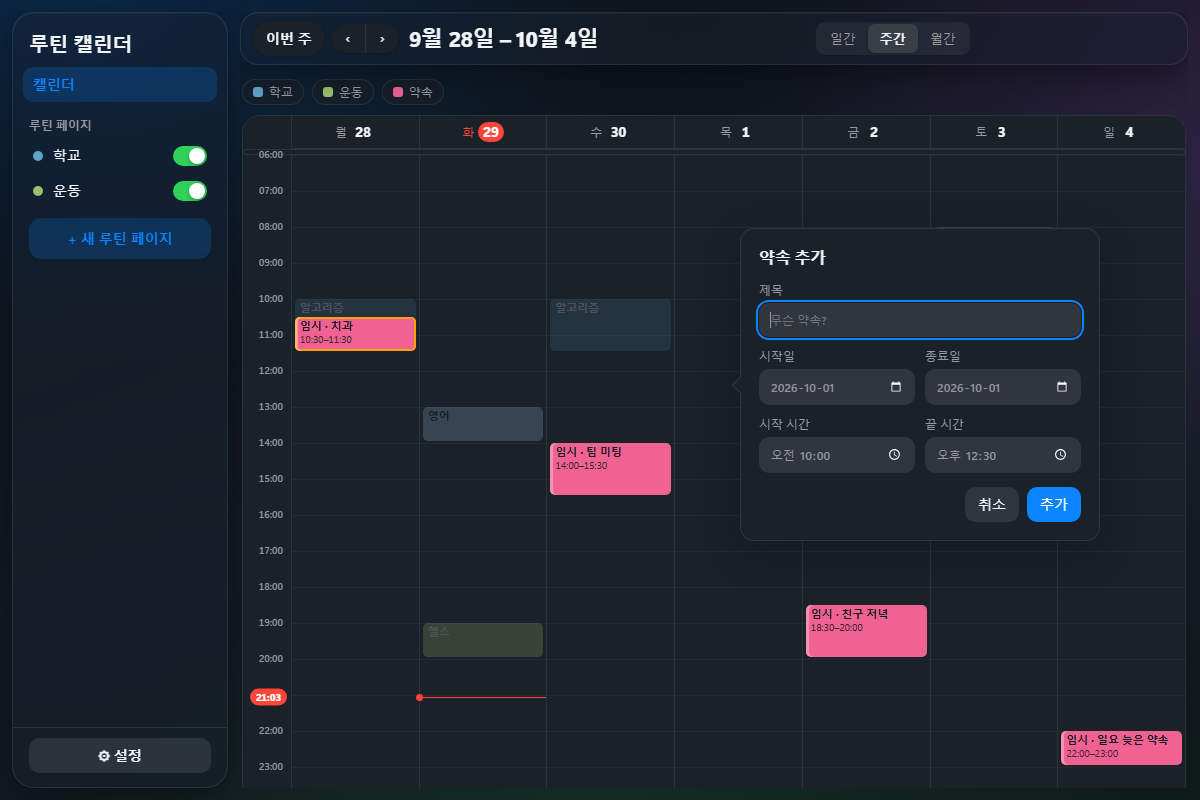
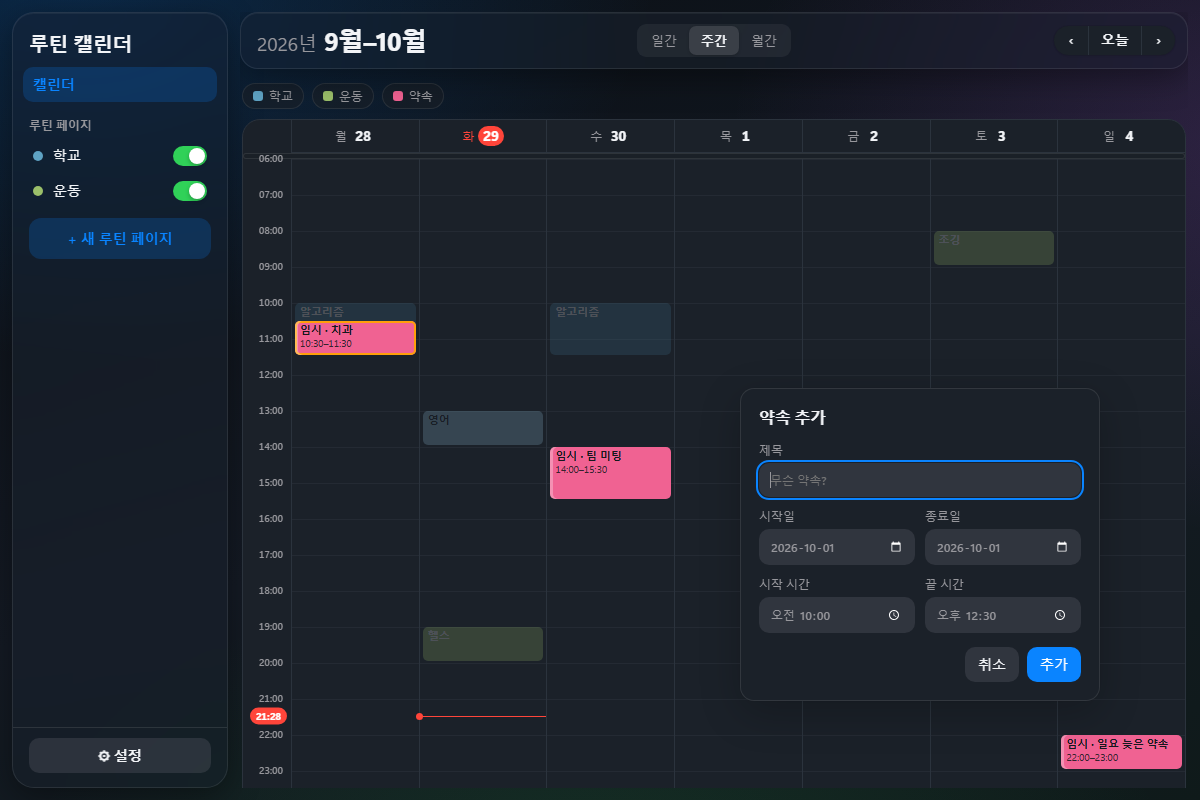
Popover: drop the arrow; align the top corner to the anchor and push up only when needed
- 화살표 제거. 팝오버의 위쪽 모서리(오른쪽에 뜨면 왼쪽 위, 왼쪽에 뜨면 오른쪽 위)를 기준점 상단(블록 위쪽·클릭/드래그 놓은 지점)에 맞춰 아래로 펼치고, 아래가 부족하면 위로 밀어 화면 안에. 등장 스프링의 원점도 그 모서리
- 하네스: 월간 날짜 칸 클릭 시 상단이 클릭 높이, 마지막 줄 칸·일요일 22시 블록에서 잘리지 않음 확인. 문서·스크린샷 갱신

diff --git a/styles.css b/styles.css
@@ -373,7 +373,7 @@ button[disabled]:active{transform:none}
 @media (prefers-color-scheme: dark){:root:not([data-theme="light"]) .mgrid .ev{--tint:30%;color:color-mix(in srgb,var(--ec) 70%,#fff)}:root:not([data-theme="light"]) .mgrid .ev .tag{background:rgba(255,255,255,.14)}:root:not([data-theme="light"]) .blk.evb{box-shadow:inset 3px 0 0 rgba(255,255,255,.3)}:root:not([data-theme="light"]) .blk.evb.cf{box-shadow:inset 3px 0 0 rgba(255,255,255,.3),inset 0 0 0 2px var(--warn)}}
 :root[data-theme="dark"] .mgrid .ev{--tint:30%;color:color-mix(in srgb,var(--ec) 70%,#fff)}:root[data-theme="dark"] .mgrid .ev .tag{background:rgba(255,255,255,.14)}:root[data-theme="dark"] .blk.evb{box-shadow:inset 3px 0 0 rgba(255,255,255,.3)}:root[data-theme="dark"] .blk.evb.cf{box-shadow:inset 3px 0 0 rgba(255,255,255,.3),inset 0 0 0 2px var(--warn)}
 
-/* 3차: 약속 추가·편집은 데스크톱 폭에서 팝오버(기준점 옆, 화살표, 360px, 딤 없음). 상단바 ‹ 오늘 › 묶음은 .navpair (4차 참고) */
+/* 3차: 약속 추가·편집은 데스크톱 폭에서 팝오버(기준점 옆, 위쪽 모서리를 기준점 상단에, 360px, 화살표·딤 없음). 상단바 ‹ 오늘 › 묶음은 .navpair (4차 참고) */
 .bar .navpair{display:inline-flex;align-items:stretch;flex:none;background:var(--panel);border-radius:999px;box-shadow:0 1px 2px rgba(0,0,0,.08),0 0 0 1px rgba(0,0,0,.05);overflow:hidden}
 .bar .navpair button{background:transparent;box-shadow:none;border:0;border-radius:0;padding:6px 11px;min-width:34px;font-weight:600;font-size:14px;line-height:1.2;color:var(--ink)}
 .bar .navpair button+button{border-left:1px solid var(--grid-line)}
@@ -383,9 +383,6 @@ button[disabled]:active{transform:none}
 .md.pop{position:fixed;width:360px;max-width:calc(100vw - 24px);max-height:none;overflow:visible;border-radius:14px;padding:16px 18px 18px;background:var(--panel);border:1px solid var(--line);box-shadow:0 12px 40px rgba(0,0,0,.22),0 0 0 1px rgba(0,0,0,.04);touch-action:auto}
 .md.pop h3{font-size:16px;margin-bottom:12px}
 .md.pop .cfbox{max-height:160px;overflow:auto}
-.md.pop .arrow{position:absolute;width:12px;height:12px;background:var(--panel);border:1px solid var(--line);transform:rotate(45deg);pointer-events:none}
-.md.pop[data-side="right"] .arrow{left:-7px;border-top:none;border-right:none}
-.md.pop[data-side="left"] .arrow{right:-7px;border-bottom:none;border-left:none}
 
 /* 4차: 캘린더 상단바(macOS): 왼쪽 큰 제목 · 가운데 세그먼트 · 오른쪽 ‹ 오늘 › 묶음(+ 약속은 그 왼쪽). grid 1fr auto 1fr 이라 제목 길이가 바뀌어도 세그먼트는 정중앙, 묶음은 오른쪽 끝 고정 */
 .bar.cal{display:grid;grid-template-columns:1fr auto 1fr;align-items:center;gap:8px}

diff --git a/CLAUDE.md b/CLAUDE.md
@@ -113,7 +113,7 @@
 - 모션은 의존성 없이 Web Animations API 로 구현(`anim()`). 스프링은 감쇠 진동(ζ=1−bounce, ω=2π: 정규화 시간 1 에서 안착)을 `linear()` 이징으로 32점 샘플링(`springEasing(bounce)`), 각 150~250ms. `prefers-reduced-motion` 이면 `anim()` 이 즉시 최종 상태를 적용한다. `anim()` 은 `finished` 와 `duration+40ms` 타이머 중 먼저 끝나는 쪽으로 resolve 한다(애니메이션 클록이 멈춘 환경에서도 제거 등 후속 작업 보장)
   - 뷰 전환(`transitionMain`): `render()` 에서 `viewKey`(일/주/월/페이지)가 바뀔 때만 나가는 `.main` 을 `.leaving` 으로 겹쳐 페이드아웃 + 새 화면 페이드인/8px 슬라이드. ‹ › 이동은 즉시
   - 하단 시트(`openSheet`/`dismissSheet`): 설정 모달, 그리고 720px 이하 폭에서의 약속 모달. 딤 페이드, 시트 스프링 진입, Esc·바깥 클릭·90px 이상 아래로 드래그하면 닫힘. `.md` 위에 `.grab` 핸들
-  - 약속 팝오버(`openPopover`/`dismissPopover`, 데스크톱 폭 `usePopover()` = 창 너비 > 720px): `openEvent(ev,dateKey,preset,anchor)` 의 `anchor={el,x,y}` = 클릭한 블록·칩·버튼 요소 + 클릭/드래그를 놓은 지점. 자리는 요소 사각형 오른쪽 → 왼쪽 → 지점 오른쪽 → 왼쪽 순으로 처음 들어가는 곳(일간 뷰의 폭 전체 블록은 지점 기준이 됨), 세로는 기준점 중앙에 맞춘 뒤 12px 여백 안으로 민다. 폭 360 `.md.pop` + 기준점을 가리키는 `.arrow`(`data-side`), 딤 없는 투명 `.ov.clear`, 기준점 쪽 `transform-origin` 에서 scale .9→1 스프링 120ms. 충돌 박스로 높이가 바뀌면 `md._place()` 로 다시 배치. Esc·바깥 클릭으로 닫힘, 드래그 이동 없음. 필드·검증·충돌 경고는 시트와 같다
+  - 약속 팝오버(`openPopover`/`dismissPopover`, 데스크톱 폭 `usePopover()` = 창 너비 > 720px): `openEvent(ev,dateKey,preset,anchor)` 의 `anchor={el,x,y}` = 클릭한 블록·칩·버튼 요소 + 클릭/드래그를 놓은 지점. 자리는 요소 사각형 오른쪽 → 왼쪽 → 지점 오른쪽 → 왼쪽 순으로 처음 들어가는 곳(일간 뷰의 폭 전체 블록은 지점 기준이 됨). 세로는 팝오버의 위쪽 모서리(오른쪽에 뜨면 왼쪽 위, 왼쪽에 뜨면 오른쪽 위)를 기준점 상단(블록 위쪽·클릭 지점)에 맞춰 아래로 펼치고, 아래가 부족하면 위로 밀어 12px 여백 안에 둔다. 폭 360 `.md.pop`(`data-side`), 화살표 없음, 딤 없는 투명 `.ov.clear`, 기준점에 닿은 위쪽 모서리를 `transform-origin` 으로 scale .9→1 스프링 120ms. 충돌 박스로 높이가 바뀌면 `md._place()` 로 다시 배치. Esc·바깥 클릭으로 닫힘, 드래그 이동 없음. 필드·검증·충돌 경고는 시트와 같다
   - 블록 드래그: 잡으면 `scale(1.02)` + `.dragging` 그림자, 놓으면 재렌더 뒤 `pendingSettle` 로 그 블록을 1.02→1 스프링 안착(`settleBlock`)
   - 토글·세그먼트: `.sw .knob`(실제 요소)와 `.seg .pill`(선택 배경)이 이전 위치에서 미끄러진다(`pendingKnob`, `segPrev` → `animateKnob`/`layoutSegs`, render 끝에 호출)
 - 비교표와 스크린샷은 `docs/design-review.md`, `docs/shots/`

diff --git a/docs/design-review.md b/docs/design-review.md
@@ -72,15 +72,16 @@
 
 ## 3차: 데스크톱 잔손질 (약속 팝오버 · 고정 화살표)
 
-- 약속 추가·편집은 데스크톱 폭에서 하단 시트 대신 **팝오버**: 기준점(클릭한 블록/칩/버튼, 또는 드래그를 놓은 지점) 오른쪽, 자리가 없으면 왼쪽, 아래가 부족하면 위로 밀어 화면 안에. 폭 360, 기준점을 가리키는 화살표, 딤 없음, 기준점 쪽에서 scale .9→1 스프링 120ms. Esc·바깥 클릭으로 닫힘. 설정 모달은 시트 그대로
+- 약속 추가·편집은 데스크톱 폭에서 하단 시트 대신 **팝오버**: 기준점(클릭한 블록/칩/버튼, 또는 드래그를 놓은 지점) 오른쪽, 자리가 없으면 왼쪽. 팝오버의 위쪽 모서리를 기준점 상단(블록 위쪽·클릭 지점)에 맞춰 아래로 펼치고, 아래가 부족하면 위로 밀어 화면 안에. 폭 360, 화살표·딤 없음, 위쪽 모서리에서 scale .9→1 스프링 120ms. Esc·바깥 클릭으로 닫힘. 설정 모달은 시트 그대로
 - 상단바는 `[오늘/이번 주][‹ ›] 제목` — ‹ › 한 쌍이 왼쪽에 고정돼 제목 길이(12월 28일 – 1월 3일 등)와 무관
 
 | 확인 | 그림 |
 |---|---|
 | 오른쪽 끝·아래쪽 끝(일요일 22시) 블록 → 왼쪽으로, 위로 밀려 잘리지 않음 | [popover-edge-light](shots/popover-edge-light.png) |
-| 주간 드래그 생성 → 놓은 지점 옆 | [popover-drag-dark](shots/popover-drag-dark.png) |
+| 주간 드래그 생성 → 놓은 지점이 팝오버 왼쪽 위 모서리 | [popover-drag-dark](shots/popover-drag-dark.png) |
+| 월간 날짜 칸 클릭 → 클릭 지점 높이에 팝오버 상단 | [popover-cell-light](shots/popover-cell-light.png) |
 | 일간 폭 전체 블록 → 클릭 지점 기준 | [popover-day-light](shots/popover-day-light.png) |
-| 등장 프레임 0·40·80·120ms | [motion-popover-light](shots/motion-popover-light.png) |
+| 등장 프레임 0·40·80·120ms (위쪽 모서리에서 커짐) | [motion-popover-light](shots/motion-popover-light.png) |
 | 상단바: 이번 주 / 12월 28일 – 1월 3일 / 12월 31일 (목) / 월간 — 화살표 자리 동일 | [bar-nav](shots/bar-nav.png) |
 
 ## 4차: 상단바 재배치 (macOS 캘린더 기준)
